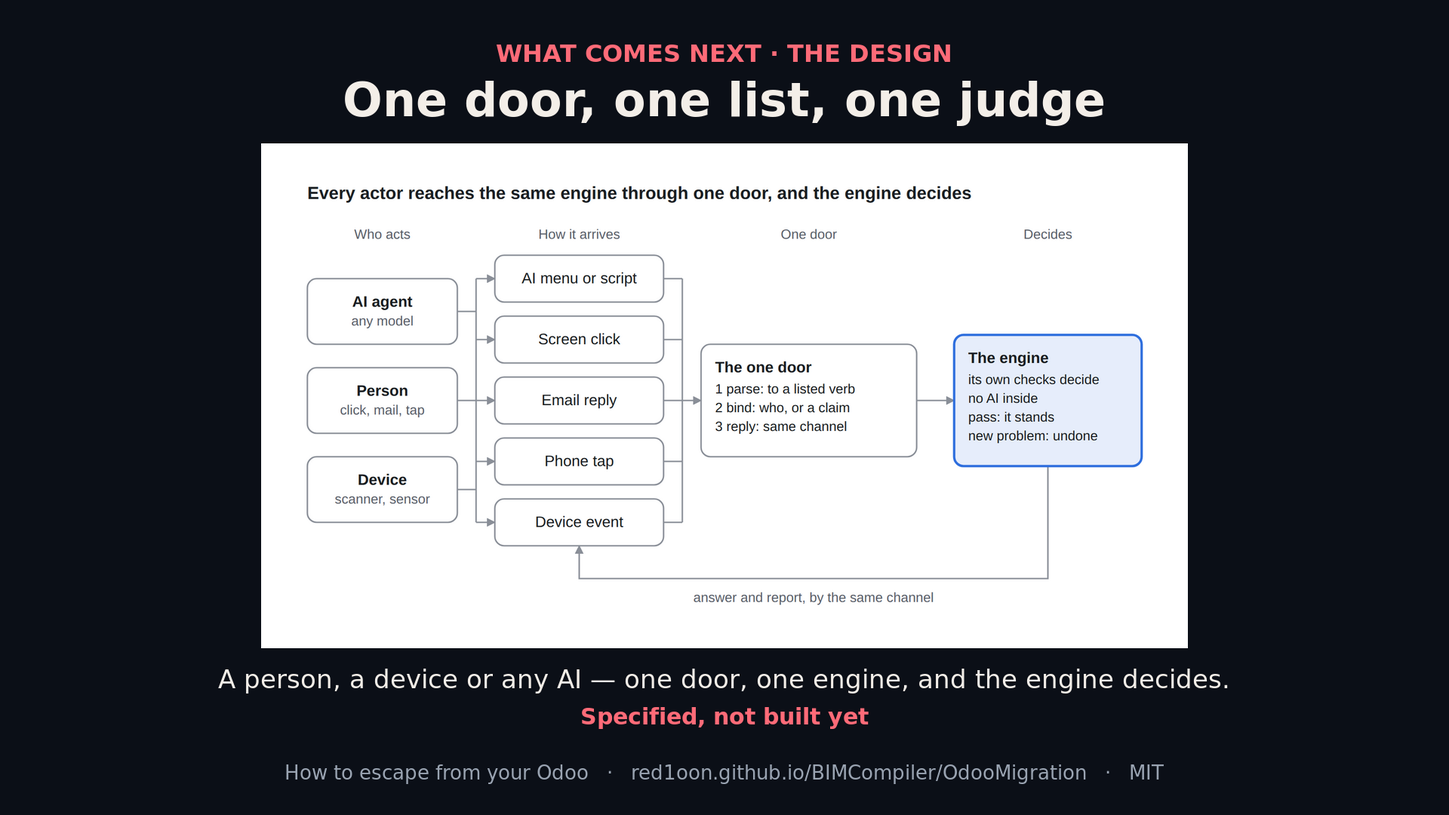
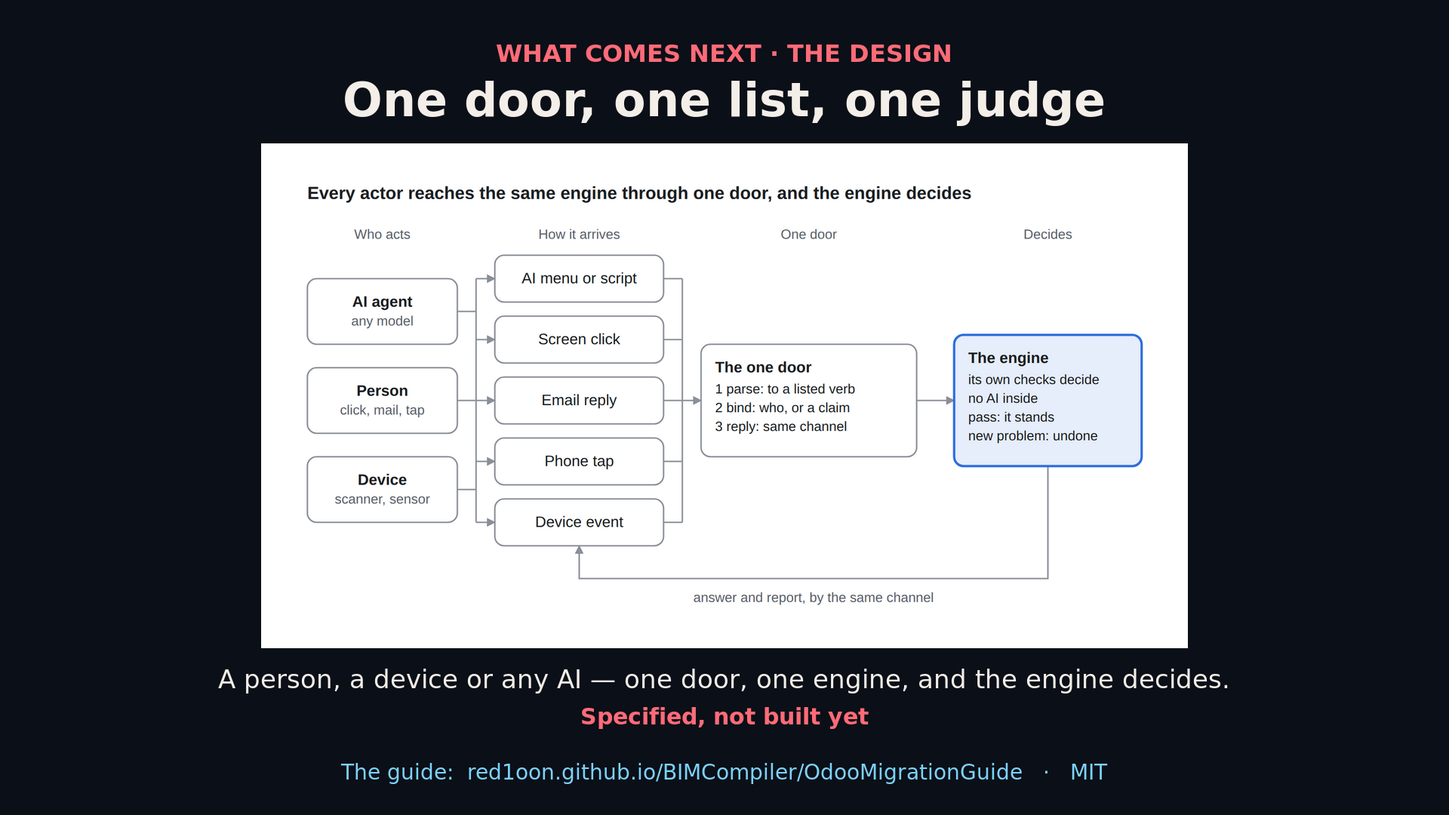
film: zh/th/ms builder (lang_text + build_lang + svg2png), ZH rc1 built; guide URL on the end card; resume notes

Changed region(s): [[0.2188, 0.9167, 0.75, 0.9778], [0.7812, 0.9167, 0.8125, 0.9472]]

diff --git a/scripts/film_odoo_migration/svg2png.js b/scripts/film_odoo_migration/svg2png.js
@@ -1,0 +1,7 @@
+// ⚠ DO NOT REMOVE — render an SVG to PNG in headless Chromium (no GPU), the way a browser draws it (ImageMagick's own SVG renderer drops this diagram's fills). node svg2png.js in.svg out.png [width]
+const { chromium } = require('/home/red1/bim-ootb/tests/node_modules/playwright'), fs = require('fs');
+(async () => { const [, , i, o, w] = process.argv, svg = fs.readFileSync(i, 'utf8'), m = /viewBox="0 0 ([\d.]+) ([\d.]+)"/.exec(svg) || /width="([\d.]+)"[^>]*height="([\d.]+)"/.exec(svg);
+  const W = Number(m[1]), H = Number(m[2]), scale = (Number(w) || 1900) / W;
+  const b = await chromium.launch({ args: ['--disable-gpu'] }), p = await (await b.newContext({ viewport: { width: Math.ceil(W), height: Math.ceil(H) }, deviceScaleFactor: scale })).newPage();
+  await p.setContent('<html><body style="margin:0;background:#fff">' + svg.replace(/<\?xml[^>]*>/, '') + '</body></html>'); await p.waitForTimeout(300);
+  await p.locator('svg').first().screenshot({ path: o }); await b.close(); console.log('§SVG2PNG ' + o + ' ' + W + 'x' + H + ' scale=' + scale.toFixed(2)); })();

diff --git a/scripts/film_odoo_migration/lang_text.py b/scripts/film_odoo_migration/lang_text.py
@@ -1,0 +1,143 @@
+# ⚠ DO NOT REMOVE — Scope: every word of the film "How to escape from your Odoo" in zh / th / ms (owner 2026-11-09: "Do Mandarin version, then Thai, then Malay (E-R-P in case foreign
+#   pronounced as one syllable)"). Same beats and cards as the English rc4 (build.py / cards.sh). Numbers are {slots} filled from out/rec/facts.json — never typed here.
+#   Malay: the VOICE says E-R-P and A-I (letters), the CAPTION keeps ERP / AI (build_lang.py applies it). Program output (the export terminal) and the ERP's own UI stay as shot.
+SVG_EN = ['Every actor reaches the same engine through one door, and the engine decides', 'Who acts', 'How it arrives', 'One door', 'Decides', 'AI agent', 'any model', 'Person',
+          'click, mail, tap', 'Device', 'scanner, sensor', 'AI menu or script', 'Screen click', 'Email reply', 'Phone tap', 'Device event', 'The one door', '1 parse: to a listed verb',
+          '2 bind: who, or a claim', '3 reply: same channel', 'The engine', 'its own checks decide', 'no AI inside', 'pass: it stands', 'new problem: undone', 'answer and report, by the same channel']
+L = {}
+L['zh'] = dict(
+ font_b='Noto-Sans-CJK-SC-Bold', font_r='Noto-Sans-CJK-SC', ass_font='Noto Sans CJK SC', split='zh',
+ cards={
+  'c01': ['真实运行 · 从头到尾', '如何逃离', '你的 Odoo', 'Odoo 17 演示公司 → Kernel ERP，就在这台电脑上'],
+  'c02': ['通常的情况', '你', '他们的程序', '他们的数据库', '每一次点击', '全天运行', '在别处', '全天运行', '按月计费', '你的数据存放在一台你一直在付费的服务器上。'],
+  'c03': ['之前 · 之后', 'A · Odoo（它的客户界面）', 'B · Kernel ERP，就在这个浏览器里'],
+  'c04': ['第一步', '导出', '在你的 Odoo 旁边', '一个小程序读取数据，写出一个工作簿'],
+  'c05': ['在装有 Odoo 的电脑上'],
+  'c06': ['第二步', '你自己的', '公司', '按 iDempiere 的方式建立'],
+  'c07': ['登录界面上的新公司'],
+  'c08': ['第三步', '从 Odoo', '迁移', '选择文件 · 查看摘要 · 处理'],
+  'c09': ['从 Odoo 迁移：选好文件，回答几个问题'],
+  'c10': ['摘要：在写入任何数据之前'],
+  'c11': ['处理：要么全部写入，要么一条也不写'],
+  'c12': ['Odoo 的客户，出现在 ERP 自己的窗口里'],
+  'c13': ['Odoo 的产品，出现在 ERP 自己的窗口里'],
+  'c14': ['本地优先', '就在你的', '电脑上', 'ERP 和你的数据都在这个浏览器里'],
+  'c15': ['断开网络 —— 依然修改并保存了一位客户', '离线 · {req} 次网络请求'],
+  'c16': ['你的团队：团队面板 —— 先建立团队，再“访问”', '团队影片：'],
+  'c17': ['这次运行证明了什么（它自己的日志）', '{ops} 条记录，一组签名的更改', '链条已验证：{vc}', '{bp} 个业务伙伴 · {pr} 个产品', '{il} 行库存 · {ev} 个会计科目',
+          '摘要预测的，正是“处理”写入的 —— 17 张表全部一致', '断网时保存：{req} 次网络请求'],
+  'c18': ['不只是 Odoo', '每张表一个工作表。', '第一行：列名。', '其余的由 ERP 自己的数据字典决定。', 'Odoo 只是打开的第一扇门 —— 任何能读出数据的系统都适用'],
+  'c19': ['尚未完成', '下一次更新将带来', '· 余额和未结发票', '· 账目精确到分', '· 在同一台电脑上与 Odoo 比较速度', '今天已迁移：客户、联系人、产品、价格、会计科目、仓库和期初库存'],
+  'c20': ['接下来 · 设计', '一扇门，一份清单，一位裁判', '一个人、一台设备或任何 AI —— 一扇门、一个引擎，由引擎决定。', '已有规格，尚未建成', '如何逃离你的 Odoo'],
+ },
+ svg=['每个参与者都通过一扇门到达同一个引擎，由引擎决定', '谁在操作', '如何到达', '一扇门', '决定', 'AI 代理', '任何模型', '人', '点击、邮件、触屏', '设备', '扫描器、传感器',
+      'AI 菜单或脚本', '屏幕点击', '邮件回复', '手机触屏', '设备事件', '这一扇门', '1 解析：成为已列出的动词', '2 绑定：是谁，或一项声明', '3 回复：同一渠道', '引擎', '由它自己的检查决定',
+      '内部没有 AI', '通过：结果成立', '出现新问题：撤销', '通过同一渠道回答和报告'],
+ turns={
+  '02': [('F', '我的数据存在一台我一直在付费的服务器上。能拿出来吗？'), ('M', '可以。这是一次真实的运行，用 Odoo 的演示公司，从头到尾。')],
+  '03': [('M', '左边是 Odoo。右边是 Kernel ERP，就在这个浏览器里，就在这台电脑上。三步就到了这里。')],
+  '05': [('M', '第一步。在你的 Odoo 旁边运行一个小程序，它读取你需要的数据，写出一个工作簿。它从不修改 Odoo。')],
+  '07': [('M', '第二步。在 ERP 里建立你自己的公司，方式和 iDempiere 一样，然后登录。')],
+  '09': [('M', '第三步。打开“从 Odoo 迁移”，选择文件。什么都不会上传。它会问几个问题，比如哪个单位对应哪个。')],
+  '10': [('F', '在我按下任何按钮之前，它会做什么？'), ('M', '这是真实导入的一次试运行。每张表都写明会导入多少行，以及哪些会被拒绝、为什么。这里，一条也没有。')],
+  '11': [('M', '处理。要么全部写入，要么一条也不写。')],
+  '12': [('F', '真的都在吗？'), ('M', '{bp}位客户、{pr}个产品、{ev}个会计科目、{il}行库存。和摘要说的完全一样。')],
+  '13': [('M', '还有它们的产品，在 ERP 自己的窗口里。')],
+  '15': [('F', '如果断网了呢？'), ('M', '什么都不会停。这里网络已经断开，客户依然被修改并保存。每一次点击都在这台电脑上得到回应，没有服务器要等，也没有服务器要付费。')],
+  '16': [('F', '可我的员工也需要同样的数据。'), ('M', '每台设备只把自己签名的更改通过中继发送出去：那是一个邮箱，不是服务器。在这里建立团队，同事们下次访问时就会收到这些更改。团队影片里有完整的演示。')],
+  '17': [('M', '这次运行检查了自己。{ops}条记录，在一组签名的更改里，链条已验证，每张表的摘要都和结果一致。')],
+  '18': [('M', 'Odoo 只是我们打开的第一扇门。导入器里没有任何 Odoo 专用的东西。任何能读出数据的系统都适用。')],
+  '19': [('F', '那我明天就能切换了吗？'), ('M', '主数据和期初库存，今天就可以。余额、未结发票和速度对比，会在这部影片的下一次更新里。')],
+ })
+L['th'] = dict(
+ font_b='/usr/share/fonts/opentype/tlwg/Loma-Bold.otf', font_r='/usr/share/fonts/opentype/tlwg/Loma.otf', ass_font='Loma', split='th',
+ cards={
+  'c01': ['การรันจริง ตั้งแต่ต้นจนจบ', 'วิธีหนีออกจาก', 'Odoo ของคุณ', 'บริษัทเดโมของ Odoo 17 → Kernel ERP บนเครื่องนี้'],
+  'c02': ['ภาพที่คุ้นเคย', 'คุณ', 'โปรแกรมของเขา', 'ฐานข้อมูลของเขา', 'ทุกคลิก', 'ทำงานทั้งวัน', 'อยู่ที่อื่น', 'ทำงานทั้งวัน', 'เก็บเงินรายเดือน', 'ข้อมูลของคุณอยู่บนเซิร์ฟเวอร์ที่คุณต้องจ่ายเงินไม่หยุด'],
+  'c03': ['ก่อน · หลัง', 'A · Odoo (หน้าลูกค้า)', 'B · Kernel ERP ในเบราว์เซอร์นี้'],
+  'c04': ['ขั้นที่ 1', 'ส่งออก', 'ข้าง Odoo ของคุณ', 'โปรแกรมเล็ก ๆ อ่านข้อมูล แล้วเขียนเวิร์กบุ๊กหนึ่งไฟล์'],
+  'c05': ['บนเครื่องที่มี Odoo'],
+  'c06': ['ขั้นที่ 2', 'บริษัท', 'ของคุณเอง', 'ตั้งค่าแบบเดียวกับ iDempiere'],
+  'c07': ['บริษัทใหม่บนหน้าจอเข้าสู่ระบบ'],
+  'c08': ['ขั้นที่ 3', 'ย้ายข้อมูล', 'จาก Odoo', 'เลือกไฟล์ · อ่านสรุป · ประมวลผล'],
+  'c09': ['ย้ายข้อมูลจาก Odoo: เลือกไฟล์ ตอบคำถาม'],
+  'c10': ['สรุป ก่อนเขียนข้อมูลใด ๆ'],
+  'c11': ['ประมวลผล: เข้าทั้งหมด หรือไม่เข้าเลย'],
+  'c12': ['ลูกค้าของ Odoo ในหน้าต่างของ ERP เอง'],
+  'c13': ['สินค้าของ Odoo ในหน้าต่างของ ERP เอง'],
+  'c14': ['ใช้งานบนเครื่องก่อน', 'บนเครื่อง', 'ของคุณ', 'ERP และข้อมูลของคุณอยู่ในเบราว์เซอร์นี้'],
+  'c15': ['ปิดอินเทอร์เน็ต แล้วแก้ไขและบันทึกลูกค้า', 'ออฟไลน์ · {req} คำขอเครือข่าย'],
+  'c16': ['ทีมของคุณ: แผงทีม เริ่มทีม แล้วกด Visit', 'ภาพยนตร์เรื่องทีม:'],
+  'c17': ['สิ่งที่การรันนี้พิสูจน์ (จากล็อกของมันเอง)', '{ops} ระเบียน ในชุดการเปลี่ยนแปลงที่ลงนามหนึ่งชุด', 'ตรวจสอบสายโซ่แล้ว: {vc}', 'คู่ค้า {bp} ราย · สินค้า {pr} รายการ',
+          'สต็อก {il} บรรทัด · บัญชี {ev} บัญชี', 'สิ่งที่สรุปทำนายไว้ คือสิ่งที่ประมวลผลเขียนจริง ครบทั้ง 17 ตาราง', 'บันทึกขณะปิดอินเทอร์เน็ต: {req} คำขอเครือข่าย'],
+  'c18': ['ไม่ใช่แค่ Odoo', 'หนึ่งชีตต่อหนึ่งตาราง', 'แถวแรก: ชื่อคอลัมน์', 'ที่เหลือ พจนานุกรมของ ERP เองเป็นผู้ตัดสิน', 'Odoo เป็นประตูบานแรกที่เปิด สร้างมาสำหรับทุกระบบที่อ่านข้อมูลได้'],
+  'c19': ['ยังไม่ได้สร้าง', 'มาในการอัปเดตครั้งหน้า', '· ยอดคงเหลือและใบแจ้งหนี้ค้างชำระ', '· บัญชีตรงกันถึงสตางค์', '· เวลาเทียบกับ Odoo บนเครื่องเดียวกัน',
+          'วันนี้: ลูกค้า ผู้ติดต่อ สินค้า ราคา บัญชี คลังสินค้า และสต็อกยกมา'],
+  'c20': ['สิ่งที่จะมาต่อไป · การออกแบบ', 'ประตูเดียว รายการเดียว ผู้ตัดสินเดียว', 'คน อุปกรณ์ หรือ AI ใดก็ได้: ประตูเดียว เอนจินเดียว และเอนจินเป็นผู้ตัดสิน', 'มีข้อกำหนดแล้ว ยังไม่ได้สร้าง', 'วิธีหนีออกจาก Odoo ของคุณ'],
+ },
+ svg=['ผู้กระทำทุกรายเข้าถึงเอนจินเดียวกันผ่านประตูเดียว และเอนจินเป็นผู้ตัดสิน', 'ใครกระทำ', 'มาถึงอย่างไร', 'ประตูเดียว', 'ตัดสิน', 'เอเจนต์ AI', 'โมเดลใดก็ได้', 'คน', 'คลิก อีเมล แตะ',
+      'อุปกรณ์', 'เครื่องสแกน เซนเซอร์', 'เมนูหรือสคริปต์ AI', 'คลิกหน้าจอ', 'ตอบอีเมล', 'แตะโทรศัพท์', 'เหตุการณ์จากอุปกรณ์', 'ประตูเดียวนั้น', '1 แยกคำ: เป็นคำสั่งในรายการ',
+      '2 ผูก: ใคร หรือคำอ้างสิทธิ์', '3 ตอบกลับ: ช่องทางเดิม', 'เอนจิน', 'การตรวจของมันเองเป็นผู้ตัดสิน', 'ไม่มี AI อยู่ข้างใน', 'ผ่าน: ยืนยันผล', 'มีปัญหาใหม่: ย้อนกลับ', 'ตอบและรายงานผ่านช่องทางเดิม'],
+ turns={
+  '02': [('F', 'ข้อมูลของฉันอยู่บนเซิร์ฟเวอร์ ที่ฉันต้องจ่ายเงินไม่หยุด เอาออกมาได้ไหม'), ('M', 'ได้ นี่คือการรันจริงหนึ่งครั้ง กับบริษัทเดโมของ Odoo ตั้งแต่ต้นจนจบ')],
+  '03': [('M', 'ทางซ้ายคือ Odoo ทางขวาคือ Kernel ERP ในเบราว์เซอร์นี้ บนเครื่องนี้ สามขั้นตอนพามาถึงตรงนี้')],
+  '05': [('M', 'ขั้นที่หนึ่ง โปรแกรมเล็ก ๆ ข้าง Odoo ของคุณ อ่านข้อมูลที่ต้องใช้ แล้วเขียนเวิร์กบุ๊กหนึ่งไฟล์ มันไม่เคยแก้ไข Odoo')],
+  '07': [('M', 'ขั้นที่สอง สร้างบริษัทของคุณเองใน ERP แบบเดียวกับที่ iDempiere ตั้งค่า แล้วเข้าสู่ระบบ')],
+  '09': [('M', 'ขั้นที่สาม เปิด ย้ายข้อมูลจาก Odoo แล้วเลือกไฟล์ ไม่มีอะไรถูกอัปโหลด มันจะถามสองสามข้อ เช่น หน่วยไหนตรงกับหน่วยไหน')],
+  '10': [('F', 'ก่อนที่ฉันจะกดอะไร มันจะทำอะไร'), ('M', 'นี่คือการทดลองรันของการนำเข้าจริง ทุกชีตบอกว่าจะนำเข้ากี่แถว และแถวไหนจะถูกปฏิเสธ เพราะอะไร ตรงนี้ ไม่มีเลย')],
+  '11': [('M', 'ประมวลผล ทั้งหมดเข้าไป หรือไม่เข้าเลยสักรายการ')],
+  '12': [('F', 'อยู่ครบจริงหรือ'), ('M', 'ลูกค้า {bp} ราย สินค้า {pr} รายการ บัญชี {ev} บัญชี และสต็อก {il} บรรทัด ตรงตามที่สรุปบอกทุกอย่าง')],
+  '13': [('M', 'และสินค้าของมัน ในหน้าต่างของ ERP เอง')],
+  '15': [('F', 'แล้วถ้าอินเทอร์เน็ตล่มล่ะ'), ('M', 'ไม่มีอะไรหยุด ตอนนี้อินเทอร์เน็ตปิดอยู่ แต่ยังแก้ไขและบันทึกลูกค้าได้ ทุกคลิกได้คำตอบบนเครื่องนี้ ไม่มีเซิร์ฟเวอร์ให้รอ และไม่มีเซิร์ฟเวอร์ให้จ่ายเงิน')],
+  '16': [('F', 'แต่พนักงานของฉัน ต้องใช้ข้อมูลเดียวกัน'), ('M', 'แต่ละเครื่องส่งเฉพาะการเปลี่ยนแปลงที่ลงนามแล้ว ผ่านรีเลย์ ซึ่งเป็นตู้ไปรษณีย์ ไม่ใช่เซิร์ฟเวอร์ เริ่มทีมตรงนี้ แล้วเพื่อนร่วมงานจะได้รับการเปลี่ยนแปลง เมื่อเข้ามาครั้งถัดไป ภาพยนตร์เรื่องทีมแสดงไว้ครบถ้วน')],
+  '17': [('M', 'การรันนี้ตรวจตัวเอง {ops} ระเบียน ในชุดการเปลี่ยนแปลงที่ลงนามหนึ่งชุด สายโซ่ผ่านการตรวจสอบ และสรุปตรงกับผลลัพธ์ทุกตาราง')],
+  '18': [('M', 'Odoo เป็นประตูบานแรกที่เราเปิด ในตัวนำเข้าไม่มีอะไรที่เป็นของ Odoo เลย มันสร้างมาสำหรับทุกระบบที่อ่านข้อมูลได้')],
+  '19': [('F', 'แล้วฉันเปลี่ยนได้พรุ่งนี้เลยไหม'), ('M', 'ข้อมูลหลักและสต็อกยกมา วันนี้เลย ยอดคงเหลือ ใบแจ้งหนี้ค้างชำระ และการเปรียบเทียบเวลา จะมาในการอัปเดตครั้งหน้าของภาพยนตร์เรื่องนี้')],
+ })
+L['ms'] = dict(
+ font_b='/usr/share/fonts/truetype/dejavu/DejaVuSans-Bold.ttf', font_r='/usr/share/fonts/truetype/dejavu/DejaVuSans.ttf', ass_font='DejaVu Sans', split=None,
+ voice_sub=[('ERP', 'E-R-P'), ('AI', 'A-I')],   # owner: "E-R-P in case foreign pronounced as one syllable" — voice only; the caption keeps ERP / AI
+ cards={
+  'c01': ['LARIAN SEBENAR, DARI MULA HINGGA AKHIR', 'Cara melepaskan diri', 'daripada Odoo anda', 'Syarikat demo Odoo 17 → Kernel ERP, pada mesin ini'],
+  'c02': ['Gambaran biasa', 'Anda', 'Program mereka', 'Pangkalan data', 'setiap klik', 'berjalan sepanjang hari', 'di tempat lain', 'berjalan sepanjang hari', 'dibil setiap bulan', 'Data anda berada pada pelayan yang anda terus bayar.'],
+  'c03': ['Sebelum · selepas', 'A · Odoo (skrin Pelanggannya)', 'B · Kernel ERP, dalam pelayar ini'],
+  'c04': ['LANGKAH 1', 'Eksport', 'di sebelah Odoo anda', 'satu program kecil membacanya, dan menulis satu buku kerja'],
+  'c05': ['Pada mesin yang ada Odoo'],
+  'c06': ['LANGKAH 2', 'Syarikat', 'anda sendiri', 'disediakan seperti cara iDempiere'],
+  'c07': ['Syarikat baharu pada skrin log masuk'],
+  'c08': ['LANGKAH 3', 'Pindah', 'dari Odoo', 'pilih fail · baca ringkasan · Proses'],
+  'c09': ['Pindah dari Odoo: fail dipilih, soalan ditanya'],
+  'c10': ['Ringkasan, sebelum apa-apa ditulis'],
+  'c11': ['Proses: semuanya, atau tiada langsung'],
+  'c12': ['Pelanggan Odoo, dalam tetingkap ERP sendiri'],
+  'c13': ['Produk Odoo, dalam tetingkap ERP sendiri'],
+  'c14': ['TEMPATAN DAHULU', 'Pada mesin', 'anda', 'ERP dan data anda berada dalam pelayar ini'],
+  'c15': ['Internet dimatikan — pelanggan diubah dan disimpan', 'LUAR TALIAN · {req} permintaan rangkaian'],
+  'c16': ['Pasukan anda: panel Pasukan — Mulakan pasukan, kemudian Visit', 'filem pasukan:'],
+  'c17': ['Apa yang dibuktikan larian ini (lognya sendiri)', '{ops} rekod, satu set perubahan bertandatangan', 'rantai disahkan: {vc}', '{bp} rakan niaga · {pr} produk',
+          '{il} baris stok · {ev} akaun', 'ramalan ringkasan = apa yang ditulis Proses, dalam kesemua 17 jadual', 'simpan semasa internet dimatikan: {req} permintaan rangkaian'],
+  'c18': ['Bukan Odoo sahaja', 'Satu helaian bagi setiap jadual.', 'Baris pertama: nama lajur.', 'Kamus ERP sendiri menentukan selebihnya.', 'Odoo pintu pertama dibuka — dibina untuk mana-mana sistem yang datanya boleh dibaca'],
+  'c19': ['BELUM DIBINA', 'Dalam kemas kini seterusnya', '·  baki dan invois belum dibayar', '·  akaun sepadan hingga ke sen', '·  masa berbanding Odoo, pada mesin yang sama',
+          'hari ini: pelanggan, kenalan, produk, harga, akaun, gudang dan stok pembukaan'],
+  'c20': ['SETERUSNYA · REKA BENTUK', 'Satu pintu, satu senarai, satu hakim', 'Manusia, peranti atau mana-mana AI — satu pintu, satu enjin, dan enjin yang menentukan.', 'Ada spesifikasi, belum dibina', 'Cara melepaskan diri daripada Odoo anda'],
+ },
+ svg=['Setiap pelaku sampai ke enjin yang sama melalui satu pintu, dan enjin yang menentukan', 'Siapa bertindak', 'Bagaimana ia sampai', 'Satu pintu', 'Menentukan', 'Ejen AI', 'apa-apa model',
+      'Manusia', 'klik, mel, sentuh', 'Peranti', 'pengimbas, penderia', 'Menu atau skrip AI', 'Klik skrin', 'Balasan e-mel', 'Sentuhan telefon', 'Peristiwa peranti', 'Pintu yang satu',
+      '1 hurai: kata kerja tersenarai', '2 ikat: siapa, atau tuntutan', '3 balas: saluran sama', 'Enjin', 'semakannya sendiri menentukan', 'tiada AI di dalam', 'lulus: ia kekal',
+      'masalah baharu: dibatalkan', 'jawapan dan laporan, melalui saluran yang sama'],
+ turns={
+  '02': [('F', 'Data saya berada pada pelayan yang saya terus bayar. Bolehkah saya keluarkannya?'), ('M', 'Boleh. Ini satu larian sebenar, dengan syarikat demo Odoo, dari mula hingga akhir.')],
+  '03': [('M', 'Di kiri, Odoo. Di kanan, Kernel ERP, dalam pelayar ini, pada mesin ini. Tiga langkah membawanya ke sini.')],
+  '05': [('M', 'Langkah satu. Satu program kecil di sebelah Odoo anda membaca apa yang anda perlukan, dan menulis satu buku kerja. Ia tidak pernah mengubah Odoo.')],
+  '07': [('M', 'Langkah dua. Cipta syarikat anda sendiri dalam ERP, seperti cara iDempiere menyediakannya, dan log masuk.')],
+  '09': [('M', 'Langkah tiga. Buka Pindah dari Odoo dan pilih fail. Tiada apa yang dimuat naik. Ia bertanya beberapa soalan, seperti unit mana sama dengan unit mana.')],
+  '10': [('F', 'Sebelum saya tekan apa-apa, apa yang akan ia lakukan?'), ('M', 'Ini larian percubaan bagi import sebenar. Setiap helaian menyatakan berapa baris akan masuk, dan mengapa ada yang ditolak. Di sini, tiada.')],
+  '11': [('M', 'Proses. Semuanya masuk, atau tiada langsung.')],
+  '12': [('F', 'Betulkah semuanya ada?'), ('M', '{bp} pelanggan, {pr} produk, {ev} akaun dan {il} baris stok. Tepat seperti kata ringkasan.')],
+  '13': [('M', 'Dan produknya, dalam tetingkap ERP sendiri.')],
+  '15': [('F', 'Dan jika internet terputus?'), ('M', 'Tiada apa yang berhenti. Di sini internet dimatikan, dan pelanggan masih diubah dan disimpan. Setiap klik dijawab pada mesin ini, tiada pelayan untuk ditunggu, dan tiada pelayan untuk dibayar.')],
+  '16': [('F', 'Tetapi kakitangan saya perlukan data yang sama.'), ('M', 'Setiap peranti hanya menghantar perubahannya yang bertandatangan melalui geganti: sebuah peti surat, bukan pelayan. Mulakan pasukan di sini, dan rakan sekerja anda akan menerima perubahan itu pada lawatan seterusnya. Filem pasukan menunjukkannya dengan lengkap.')],
+  '17': [('M', 'Larian ini menyemak dirinya sendiri. {ops} rekod, dalam satu set perubahan bertandatangan, rantai disahkan, dan ringkasan sama dengan hasil dalam setiap jadual.')],
+  '18': [('M', 'Odoo pintu pertama yang kami buka. Tiada apa dalam pemuat itu milik Odoo. Ia dibina untuk mana-mana sistem yang datanya boleh dibaca.')],
+  '19': [('F', 'Jadi bolehkah saya bertukar esok?'), ('M', 'Data induk dan stok pembukaan, hari ini. Baki, invois belum dibayar dan perbandingan masa akan datang dalam kemas kini seterusnya filem ini.')],
+ })

diff --git a/scripts/film_odoo_migration/build_lang.py b/scripts/film_odoo_migration/build_lang.py
@@ -1,0 +1,169 @@
+#!/usr/bin/env python3
+# ⚠ DO NOT REMOVE — Scope: the zh / th / ms versions of "How to escape from your Odoo" (owner 2026-11-09). Same beats, shots and facts as the English build (build.py, cards.sh); every
+#   on-screen text translated (lang_text.py) except program output and the ERP's own UI; numbers filled from out/rec/facts.json. Voices = Microsoft Edge TTS (CLOUD: the script text
+#   is sent to Microsoft — the house choice for zh/th/ms, FILM_NARRATION.md PLAYBOOK; clips cached by text). Captions: zh/th cut into short single lines; ms voice says E-R-P / A-I,
+#   the caption keeps ERP / AI. READ out/build_<lang>.log; exit codes are not evidence.   Run: venv/bin/python build_lang.py zh|th|ms [out.mp4]
+import os, sys, json, re, hashlib, asyncio, subprocess, numpy as np, soundfile as sf, edge_tts
+sys.path.insert(0, os.path.dirname(os.path.abspath(__file__))); from lang_text import L as LT, SVG_EN
+HERE = os.path.dirname(os.path.abspath(__file__)); LANG = sys.argv[1]; T = LT[LANG]
+OUT = sys.argv[2] if len(sys.argv) > 2 else os.path.expanduser('~/Videos/How_to_escape_from_your_Odoo_%s_rc1.mp4' % LANG.upper())
+if os.path.exists(OUT): print('§BUILD_REFUSED %s exists' % OUT); sys.exit(5)
+C = os.path.join(HERE, 'out/cards_' + LANG); W = os.path.join(HERE, 'out/build_' + LANG); R = os.path.join(HERE, 'out/rec'); os.makedirs(C, exist_ok=True); os.makedirs(W, exist_ok=True)
+LOG = []
+def say(s): print(s, flush=True); LOG.append(s)
+F = json.load(open(os.path.join(R, 'facts.json'))); msg = F['form_msg']; mig = lambda t: int(re.search(t + r' (\d+)', msg).group(1))
+assert F['offline_proven'] is True and F['verify_chain'] == 'ok' and F['offline_requests'] == 0, 'a voiced claim is not proven by the recording'
+N = dict(bp=mig('C_BPartner'), pr=mig('M_Product'), ev=mig('C_ElementValue'), il=mig('M_InventoryLine'), ops=F['commit_ops'], req=F['offline_requests'], vc=F['verify_chain'])
+say('§LANG %s facts %s' % (LANG, json.dumps(N)))
+fill = lambda s: s.format(**N)
+FB, FR = T['font_b'], T['font_r']; MONO = '/usr/share/fonts/truetype/dejavu/DejaVuSansMono.ttf'
+BG, BG2, CO, OW, SK, GR = '#0b0f17', '#0f172a', '#FF6B78', '#F3EEE8', '#7dd3fc', '#9aa4b2'
+def im(args): subprocess.run(['convert'] + [str(a) for a in args], check=True)
+def card(k, i): return fill(T['cards'][k][i])
+def chapter(out, k):
+    im(['-size', '1920x1080', 'xc:' + BG, '-gravity', 'center', '-font', FB, '-pointsize', 34, '-fill', CO, '-annotate', '+0-210', card(k, 0), '-pointsize', 110, '-fill', OW, '-annotate', '+0-60', card(k, 1),
+        '-fill', CO, '-annotate', '+0+90', card(k, 2), '-font', FR, '-pointsize', 40, '-fill', OW, '-annotate', '+0+220', card(k, 3), os.path.join(C, out)])
+def shot(out, src, label):
+    im([os.path.join(R, src), '-resize', '1340x754', os.path.join(C, '_s.png')])
+    im(['-size', '1920x1080', 'xc:' + BG2, '-font', FB, '-pointsize', 44, '-fill', SK, '-gravity', 'north', '-annotate', '+0+18', label, os.path.join(C, '_s.png'), '-gravity', 'north', '-geometry', '+0+92', '-composite', os.path.join(C, out)])
+# ── cards ──
+chapter('01_title.png', 'c01')
+c = T['cards']['c02']
+im(['-size', '1920x1080', 'xc:' + BG2, '-font', FB, '-pointsize', 46, '-fill', SK, '-gravity', 'north', '-annotate', '+0+40', c[0], '-fill', 'none', '-stroke', '#475569', '-strokewidth', 4,
+    '-draw', 'roundrectangle 150,300 610,560 24,24', '-draw', 'roundrectangle 730,300 1190,560 24,24', '-draw', 'roundrectangle 1310,300 1770,560 24,24', '-stroke', CO, '-strokewidth', 6,
+    '-draw', 'line 610,430 730,430', '-draw', 'line 1190,430 1310,430', '-stroke', 'none', '-gravity', 'north',
+    '-font', FB, '-pointsize', 42, '-fill', OW, '-annotate', '-580+340', c[1], '-annotate', '+0+340', c[2], '-annotate', '+580+340', c[3],
+    '-font', FR, '-pointsize', 30, '-fill', GR, '-annotate', '-580+415', c[4], '-annotate', '+0+415', c[5], '-annotate', '+580+415', c[7], '-annotate', '+0+460', c[6], '-annotate', '+580+460', c[8],
+    '-font', FB, '-pointsize', 40, '-fill', CO, '-annotate', '+0+640', c[9], os.path.join(C, '02_trap.png')])
+c = T['cards']['c03']
+im([os.path.join(R, 'odoo_contacts.png'), '-resize', '900x506', os.path.join(C, '_a.png')]); im([os.path.join(R, 'bp_window.png'), '-resize', '900x506', os.path.join(C, '_b.png')])
+im(['-size', '1920x1080', 'xc:' + BG2, '-font', FB, '-pointsize', 44, '-fill', SK, '-gravity', 'north', '-annotate', '+0+40', c[0], os.path.join(C, '_a.png'), '-gravity', 'northwest', '-geometry', '+40+200', '-composite',
+    os.path.join(C, '_b.png'), '-gravity', 'northwest', '-geometry', '+980+200', '-composite', '-font', FB, '-pointsize', 36, '-fill', OW, '-gravity', 'northwest', '-annotate', '+40+140', c[1], '-annotate', '+980+140', c[2], os.path.join(C, '03_beforeafter.png')])
+chapter('04_act1.png', 'c04')
+lines = [l.rstrip('\n').replace('🟢 ', '').replace('§ODOO-EXPORT ', '') for l in open(os.path.join(HERE, 'out/export/term_lines.txt'))]
+keep = [l for l in lines if l.startswith('sheet=')][:17] + [l for l in lines if l.strip().startswith('✓')] + [l for l in lines if 'PASS' in l]
+a = ['-size', '1920x1080', 'xc:' + BG2, '-font', FB, '-pointsize', 44, '-fill', SK, '-gravity', 'north', '-annotate', '+0+30', card('c05', 0), '-fill', '#111827', '-stroke', '#334155',
+     '-draw', 'roundrectangle 160,110 1760,845 14,14', '-stroke', 'none', '-gravity', 'northwest', '-font', MONO, '-pointsize', 28, '-fill', SK, '-annotate', '+190+128', '$ node export.js']
+y = 172
+for l in keep: a += ['-pointsize', 22, '-fill', '#86efac' if ('PASS' in l or l.strip().startswith('✓')) else '#e5e7eb', '-annotate', '+190+%d' % y, l[:118]]; y += 30
+im(a + [os.path.join(C, '05_export.png')])
+chapter('06_act2.png', 'c06'); shot('07_login.png', 'login_newco.png', card('c07', 0)); chapter('08_act3.png', 'c08')
+shot('09_form.png', 'form_units.png', card('c09', 0)); shot('10_summary.png', 'form_summary.png', card('c10', 0)); shot('11_done.png', 'form_done.png', card('c11', 0))
+shot('12_bp.png', 'bp_window.png', card('c12', 0)); shot('13_products.png', 'product_window.png', card('c13', 0)); chapter('14_local.png', 'c14')
+im([os.path.join(R, 'offline_saved.png'), '-resize', '1340x754', os.path.join(C, '_o.png')])
+im(['-size', '1920x1080', 'xc:' + BG2, '-font', FB, '-pointsize', 42, '-fill', SK, '-gravity', 'north', '-annotate', '+0+18', card('c15', 0), os.path.join(C, '_o.png'), '-gravity', 'north', '-geometry', '+0+92', '-composite',
+    '-fill', '#b91c1cdd', '-draw', 'roundrectangle 330,120 1090,190 14,14', '-font', FB, '-pointsize', 32, '-fill', 'white', '-gravity', 'northwest', '-annotate', '+350+135', card('c15', 1), os.path.join(C, '15_offline.png')])
+im([os.path.expanduser('~/bim-ootb/erp/guide_img/team_panel_before.png'), '-resize', 'x700', os.path.join(C, '_t.png')])
+im(['-size', '1920x1080', 'xc:' + BG2, '-font', FB, '-pointsize', 42, '-fill', SK, '-gravity', 'north', '-annotate', '+0+18', card('c16', 0), os.path.join(C, '_t.png'), '-gravity', 'north', '-geometry', '+0+110', '-composite',
+    '-font', FR, '-pointsize', 30, '-fill', GR, '-gravity', 'northeast', '-annotate', '+60+380', card('c16', 1), '-annotate', '+60+420', 'youtu.be/-LQwoPuQ1QU', os.path.join(C, '16_team.png')])
+c = [fill(x) for x in T['cards']['c17']]
+im(['-size', '1920x1080', 'xc:' + BG2, '-font', FB, '-pointsize', 44, '-fill', SK, '-gravity', 'north', '-annotate', '+0+40', c[0], '-font', FB, '-pointsize', 60, '-fill', OW, '-gravity', 'northwest',
+    '-annotate', '+260+200', c[1], '-annotate', '+260+320', c[2], '-annotate', '+260+440', c[3], '-annotate', '+260+540', c[4], '-font', FR, '-pointsize', 36, '-fill', GR, '-annotate', '+260+680', c[5], '-annotate', '+260+740', c[6], os.path.join(C, '17_proof.png')])
+c = T['cards']['c18']
+im(['-size', '1920x1080', 'xc:' + BG2, '-font', FB, '-pointsize', 44, '-fill', SK, '-gravity', 'north', '-annotate', '+0+40', c[0], '-font', FB, '-pointsize', 54, '-fill', OW, '-annotate', '+0+220', c[1],
+    '-annotate', '+0+320', c[2], '-annotate', '+0+420', c[3], '-font', FR, '-pointsize', 34, '-fill', GR, '-annotate', '+0+560', c[4], os.path.join(C, '18_anyerp.png')])
+c = T['cards']['c19']
+im(['-size', '1920x1080', 'xc:' + BG2, '-font', FB, '-pointsize', 34, '-fill', CO, '-gravity', 'north', '-annotate', '+0+70', c[0], '-font', FB, '-pointsize', 62, '-fill', OW, '-annotate', '+0+140', c[1],
+    '-font', FR, '-pointsize', 44, '-fill', OW, '-gravity', 'northwest', '-annotate', '+360+320', c[2], '-annotate', '+360+410', c[3], '-annotate', '+360+500', c[4], '-font', FR, '-pointsize', 32, '-fill', GR,
+    '-gravity', 'north', '-annotate', '+0+640', c[5], os.path.join(C, '19_notyet.png')])
+# the closing card: the NEURO §21.1 diagram with its 26 labels translated (font swapped to the language's), then the card
+svg = open(os.path.join(HERE, 'cards/src/actor_layer_one_door.svg')).read(); n = 0
+for en, tr in zip(SVG_EN, T['svg']):
+    svg, k = re.subn(r'(<text[^>]*>)' + re.escape(en) + r'(</text>)', lambda m: m.group(1) + tr + m.group(2), svg, count=1); n += k
+fam = T['ass_font']; svg = re.sub(r'font-family="[^"]*"', 'font-family="%s"' % fam, svg); svg = re.sub(r"font-family:[^;\"']*", 'font-family:' + fam, svg)
+open(os.path.join(W, 'diagram.svg'), 'w').write(svg); say('§LANG diagram labels translated=%d/%d font=%s' % (n, len(SVG_EN), fam))
+subprocess.run(['node', os.path.join(HERE, 'svg2png.js'), os.path.join(W, 'diagram.svg'), os.path.join(W, 'diagram.png'), '1900'], check=True)   # a browser draws it (ImageMagick's MSVG dropped the fills)
+im([os.path.join(W, 'diagram.png'), '-resize', '1180x', '-bordercolor', 'white', '-border', 24, os.path.join(C, '_d.png')])
+c = T['cards']['c20']
+im(['-size', '1920x1080', 'xc:' + BG, '-font', FB, '-pointsize', 32, '-fill', CO, '-gravity', 'north', '-annotate', '+0+52', c[0], '-font', FB, '-pointsize', 60, '-fill', OW, '-annotate', '+0+96', c[1],
+    os.path.join(C, '_d.png'), '-gravity', 'north', '-geometry', '+0+190', '-composite', '-font', FR, '-pointsize', 32, '-fill', OW, '-gravity', 'north', '-annotate', '+0+880', c[2],
+    '-font', FB, '-pointsize', 30, '-fill', CO, '-annotate', '+0+932', c[3], '-font', FR, '-pointsize', 28, '-fill', SK, '-gravity', 'south', '-annotate', '+0+40',
+    c[4] + '  ·  red1oon.github.io/BIMCompiler/OdooMigrationGuide  ·  MIT', os.path.join(C, '20_end.png')])
+for f in os.listdir(C):
+    if f.startswith('_'): os.remove(os.path.join(C, f))
+bg = subprocess.run(['convert', '-size', '10x10', 'xc:' + BG2, '-format', '%[fx:mean]', 'info:'], capture_output=True, text=True).stdout; bad = []
+for f in ['02', '03', '05', '07', '09', '10', '11', '12', '13', '15', '16', '17', '18', '19']:
+    p = [x for x in os.listdir(C) if x.startswith(f + '_')][0]; m = subprocess.run(['convert', os.path.join(C, p), '-crop', '1920x230+0+850', '-format', '%[fx:mean]', 'info:'], capture_output=True, text=True).stdout
+    if m != bg: bad.append(p + ':' + m)
+say('§LANG cards=%d caption band %s' % (len(os.listdir(C)), 'OK (14 narrated cards empty)' if not bad else 'FAIL ' + str(bad)))
+if bad: sys.exit(3)
+# ── voice (Edge, cached) ──
+VOX = {'zh': {'F': 'zh-CN-XiaoxiaoNeural', 'M': 'zh-CN-YunxiNeural'}, 'th': {'F': 'th-TH-PremwadeeNeural', 'M': 'th-TH-NiwatNeural'}, 'ms': {'F': 'ms-MY-YasminNeural', 'M': 'ms-MY-OsmanNeural'}}[LANG]
+CACHE = os.path.expanduser('~/.local/share/film_narration/cache_edge'); SR = 24000
+def tts(txt, voice):
+    h = hashlib.sha1(('%s|%s|+0%%' % (txt, voice)).encode()).hexdigest(); w = os.path.join(CACHE, h + '.wav')
+    if not os.path.exists(w):
+        mp = w[:-4] + '.mp3'
+        for _ in range(3):
+            try: asyncio.run(asyncio.wait_for(edge_tts.Communicate(txt, voice, rate='+0%').save(mp), 40)); break
+            except Exception as e: say('§EDGE retry ' + str(e)[:80])
+        subprocess.run(['ffmpeg', '-y', '-loglevel', 'error', '-i', mp, '-ar', str(SR), '-ac', '1', w], check=True); os.remove(mp); say('§EDGE_CALL voice=%s chars=%d -> %s' % (voice, len(txt), h[:10]))
+    a, _ = sf.read(w, dtype='float32'); idx = np.where(np.abs(a) > 0.004)[0]
+    return a[max(0, idx[0] - 240): idx[-1] + 480] if len(idx) else a
+def voiced(t):
+    for a, b in T.get('voice_sub', []): t = re.sub(r'\b%s\b' % a, b, t)
+    return t
+ORDER = [('01_title.png', 5.0, None), ('02_trap.png', 0, '02'), ('03_beforeafter.png', 0, '03'), ('04_act1.png', 3.6, None), ('05_export.png', 0, '05'), ('06_act2.png', 3.6, None),
+         ('07_login.png', 0, '07'), ('08_act3.png', 3.6, None), ('09_form.png', 0, '09'), ('10_summary.png', 0, '10'), ('11_done.png', 0, '11'), ('12_bp.png', 0, '12'), ('13_products.png', 0, '13'),
+         ('14_local.png', 3.6, None), ('15_offline.png', 0, '15'), ('16_team.png', 0, '16'), ('17_proof.png', 0, '17'), ('18_anyerp.png', 0, '18'), ('19_notyet.png', 0, '19'), ('20_end.png', 7.0, None)]
+LEAD, GAP, TAIL = 0.45, 0.38, 1.1; timeline, events, segs, t = [], [], [], 0.0
+for cardf, hold, key in ORDER:
+    if not key: segs.append((cardf, hold)); t += hold; continue
+    pos = LEAD
+    for spk, line in T['turns'][key]:
+        cap = fill(line); a = tts(voiced(cap), VOX[spk])
+        timeline.append((t + pos, a)); events.append((t + pos, t + pos + len(a) / SR, spk, cap)); pos += len(a) / SR + GAP
+    dur = pos - GAP + TAIL; segs.append((cardf, dur)); t += dur
+TOTAL = t; audio = np.zeros(int(TOTAL * SR) + SR, dtype=np.float32)
+for t0, a in timeline: i = int(t0 * SR); audio[i:i + len(a)] += a
+sf.write(os.path.join(W, 'voice.wav'), audio, SR)
+lst = open(os.path.join(W, 'list.txt'), 'w')
+for i, (cardf, dur) in enumerate(segs):
+    o = os.path.join(W, 'seg%02d.mp4' % i)
+    subprocess.run(['ffmpeg', '-y', '-loglevel', 'error', '-loop', '1', '-framerate', '30', '-t', '%.3f' % dur, '-i', os.path.join(C, cardf), '-vf', 'fade=t=in:st=0:d=0.4,fade=t=out:st=%.3f:d=0.4,format=yuv420p' % max(0, dur - 0.4),
+                    '-c:v', 'libx264', '-tune', 'stillimage', '-r', '30', o], check=True); lst.write("file '%s'\n" % o)
+lst.close(); subprocess.run(['ffmpeg', '-y', '-loglevel', 'error', '-f', 'concat', '-safe', '0', '-i', os.path.join(W, 'list.txt'), '-c', 'copy', os.path.join(W, 'silent.mp4')], check=True)
+# captions: zh cut at Chinese punctuation (<= 20 chars), th at spaces (<= 34 chars); each piece gets its share of the turn's time by length
+def pieces(s):
+    if T['split'] == 'zh':
+        parts, cur = [], ''
+        for ch in s:
+            cur += ch
+            if ch in '。！？；，：、' and len(cur) >= 6: parts.append(cur); cur = ''
+        if cur: parts.append(cur)
+        out = []
+        for p in parts:
+            while len(p) > 20: out.append(p[:20]); p = p[20:]
+            if out and len(out[-1]) + len(p) <= 20 and not re.search('[。！？]$', out[-1]): out[-1] += p
+            else: out.append(p)
+        return out
+    if T['split'] == 'th':
+        out, cur = [], ''
+        for wd in s.split(' '):
+            if cur and len(cur) + 1 + len(wd) > 34: out.append(cur); cur = wd
+            else: cur = (cur + ' ' + wd).strip()
+        if cur: out.append(cur)
+        return out
+    return [s]
+def ts(x): return '%d:%02d:%05.2f' % (int(x // 3600), int(x % 3600 // 60), x % 60)
+head = open(os.path.join(HERE, '../../prompts/film_narration_ass_head.txt')).read().rstrip('\n').replace('DejaVu Sans', T['ass_font']) + '\n'
+ass, npieces = head, 0
+for a0, a1, spk, line in events:
+    ps = pieces(line); tot = sum(len(p) for p in ps); cur = a0
+    for p in ps:
+        d = (a1 - a0) * len(p) / tot; ass += 'Dialogue: 0,%s,%s,%s,,0,0,0,,%s\n' % (ts(cur), ts(cur + d + (0.25 if p is ps[-1] else 0)), spk, p); cur += d; npieces += 1
+open(os.path.join(W, 'captions.ass'), 'w').write(ass)
+RAW = os.path.join(W, 'raw.mp4')
+subprocess.run(['ffmpeg', '-y', '-loglevel', 'error', '-i', os.path.join(W, 'silent.mp4'), '-i', os.path.join(W, 'voice.wav'), '-vf', 'ass=' + os.path.join(W, 'captions.ass'),
+                '-af', 'loudnorm=I=-16:TP=-1.5:LRA=11', '-c:v', 'libx264', '-crf', '20', '-preset', 'medium', '-c:a', 'aac', '-b:a', '160k', '-ar', '48000', '-shortest', RAW], check=True)
+def lufs(f):
+    r = subprocess.run(['ffmpeg', '-nostats', '-i', f, '-af', 'ebur128=peak=true', '-f', 'null', '-'], capture_output=True, text=True).stderr
+    return float(re.findall(r'I:\s+(-?[\d.]+) LUFS', r)[-1]), float(re.findall(r'Peak:\s+(-?[\d.]+) dBFS', r)[-1])
+i0, _ = lufs(RAW); g = round(-16.0 - i0, 2)
+subprocess.run(['ffmpeg', '-y', '-loglevel', 'error', '-i', RAW, '-c:v', 'copy', '-af', 'volume=%sdB,alimiter=limit=0.84:level=false' % g, '-c:a', 'aac', '-b:a', '160k', '-ar', '48000', OUT], check=True)
+I, P = lufs(OUT); dur = float(subprocess.run(['ffprobe', '-v', 'error', '-show_entries', 'format=duration', '-of', 'csv=p=0', OUT], capture_output=True, text=True).stdout)
+gaps = [round(events[i + 1][0] - events[i][1], 2) for i in range(len(events) - 1)]
+say('§BUILD_DONE %s lang=%s duration=%.1fs integrated=%.1f LUFS peak=%.1f dBFS turns=%d caption_pieces=%d longest_silence_between_turns=%.1fs' % (OUT, LANG, dur, I, P, len(events), npieces, max(gaps)))
+open(OUT[:-4] + '_narration.txt', 'w').write('How to escape from your Odoo — narration (%s). Numbers from scripts/film_odoo_migration/out/rec/facts.json. Voices: Microsoft Edge TTS (cloud).\n\n' % LANG +
+    '\n'.join('[%s] %s: %s' % (ts(a0), s, l) for a0, a1, s, l in events) + '\n')
+open(os.path.join(HERE, 'out/build_%s.log' % LANG), 'w').write('\n'.join(LOG) + '\n')

diff --git a/PROGRESS.md b/PROGRESS.md
@@ -15,7 +15,7 @@ Full text and the reasoning: `prompts/AGENT_QUEUE.md` §RESUME_PROTOCOL.
 It carries §LIVE (which agent owns which files), the waves, the ⛔USER decisions, and the standing
 constraints. A session picking up work reads that; PROGRESS.md is state, not queue.
 
-## ▶ ODOO → KERNEL ERP MIGRATION + ERP SWEEP lane (2026-11-08): read `prompts/MIGRATE_INSTALL_TENANT.md` §2026-11-08 PLAN → §B0/§B1/§B2a/§B4-SPEC → §A3-LEDGER → §OWN-DB RESULT. Done: user-run `odoo_agent/export.js` + own-Odoo flags/password prompt (#2709 #2715 #2723), Odoo record/replay mock, 16 stale ERP witnesses fixed (#2714 #2719 #2720 #2721 #2722). Owner decisions taken: import convention + summary-before-OK + uncheck; pilot NOT restored (not backward compatible); migration form lives INSIDE the ERP as a plugin (B). 2026-11-09 owner ADOPTED the Ninja multi-sheet route (MigrateExcelData, §NINJA-DECISION) — supersedes B2a. 2026-11-09 ✅ exporter v3 (one workbook, 17 sheets, 10 named patches; bim-ootb #2732) + W-SHEET-CONTRACT 🟢 live+replay (§EXPORTER-V3 RESULT). 2026-11-09 ✅ Ninja loader plugin (MigrateExcelData, bim-ootb #2734) W-NINJA-MIGRATE 🟢 31/31 on a genesis-born tenant + 4 twin default gaps fixed (§NINJA-LOADER RESULT). ✅ G1 born-tenant rows (W-GENESIS-COMPLETE 10/10, generated setInitialDefaults 182 tables; bim-ootb fix/genesis-complete-rows, regression in progress) ✅ B4 'Migrate from Odoo' form (W-ODOO-FORM 16/16 + LIVE 12/12, bim-ootb #2743). Live doc https://red1oon.github.io/BIMCompiler/OdooMigration/. NEXT: G1 merge → discount-schema choice → legacy cross-check → guide → film → legacy cross-check (§NINJA-LEGACY-INSTALL: compiles on iDempiere 13 with only the POI CellType fix) → B4 form → guide → film.
+## ▶ ODOO → KERNEL ERP MIGRATION + ERP SWEEP lane (2026-11-08): read `prompts/MIGRATE_INSTALL_TENANT.md` §2026-11-08 PLAN → §B0/§B1/§B2a/§B4-SPEC → §A3-LEDGER → §OWN-DB RESULT. Done: user-run `odoo_agent/export.js` + own-Odoo flags/password prompt (#2709 #2715 #2723), Odoo record/replay mock, 16 stale ERP witnesses fixed (#2714 #2719 #2720 #2721 #2722). Owner decisions taken: import convention + summary-before-OK + uncheck; pilot NOT restored (not backward compatible); migration form lives INSIDE the ERP as a plugin (B). 2026-11-09 owner ADOPTED the Ninja multi-sheet route (MigrateExcelData, §NINJA-DECISION) — supersedes B2a. 2026-11-09 ✅ exporter v3 (one workbook, 17 sheets, 10 named patches; bim-ootb #2732) + W-SHEET-CONTRACT 🟢 live+replay (§EXPORTER-V3 RESULT). 2026-11-09 ✅ Ninja loader plugin (MigrateExcelData, bim-ootb #2734) W-NINJA-MIGRATE 🟢 31/31 on a genesis-born tenant + 4 twin default gaps fixed (§NINJA-LOADER RESULT). ✅ G1 born-tenant rows (W-GENESIS-COMPLETE 10/10, generated setInitialDefaults 182 tables; bim-ootb fix/genesis-complete-rows, regression in progress) ✅ B4 'Migrate from Odoo' form (W-ODOO-FORM 16/16 + LIVE 12/12, bim-ootb #2743). Guide LIVE https://red1oon.github.io/BIMCompiler/OdooMigrationGuide/ · film 'How to escape from your Odoo' EN rc5 + ZH rc1 in ~/Videos. NEXT (▶ RESUME HERE in MIGRATE_INSTALL_TENANT.md): ZH to phone → TH → MS → lag update → discount-schema choice → legacy cross-check → legacy cross-check (§NINJA-LEGACY-INSTALL: compiles on iDempiere 13 with only the POI CellType fix) → B4 form → guide → film.
 ## ▶ POS → uniCenta-alike TILL + KITCHEN lane (2026-11-05, session closed): standalone till/kitchen + main till, branch relay on the LAN, localhost air-gapped tills, BOM explode, stocktake, SODA/Receive, Classic 2011 theme, standard receipt, install guide — LIVE sw v1005; films EN v5/ZH v2/MS v2. Read `prompts/POS_PLUGIN_LOCAL_FIRST.md` §13 ▶ STATUS 2026-11-05 (8 OPEN items).
 ## ▶ CAPEX / PROJECT ORDER DASHBOARD lane (2026-11-03, session 77 closed): read bim-ootb `prompts/CAPEX_DASHBOARD.md` ▶ RESUME HERE (lean, rewritten; history archived). Done: shed + HHS pushed to the local pilot and twinned 121/121 + 160/160; 7 kernel/bridge defects fixed; films EN/ZH/MS v5. NEXT: R0 probe legacy PA dashboard rows (owner go) → R1 one schedule from 4D → PA engine as a true twin.
 ## ▶ PRIVATE REAL-PROJECT lane (2026-11-06, session closed): drawings + specs + the author's own IFCs, used as a measuring rig. Shipped on bim-ootb: weld + smooth pill #2660 #2661 #2663, table reader `dxf2tables.js` #2665 (§D111), set check `dxf2setcheck.js` #2666 (§D112), neither reader wired into the Modeller page yet. Measure = sheets through the value chain, against a real set's 267 listed sheets (billable hours need the author's rate, none held). Resume from the private lane file named in MEMORY.md's first Feedback line.

diff --git a/prompts/MIGRATE_INSTALL_TENANT.md b/prompts/MIGRATE_INSTALL_TENANT.md
@@ -757,3 +757,16 @@ This measurement becomes the film's first UPDATE.
   the wrong window; W-ODOO-FORM-LIVE red on main) → own band 9542001 + guard **W-PLUGIN-ID-BANDS**; **#2749** — the Find window's "Records = N" counted the bundle only (1 over a grid of
   8) → counted through the tip reader. Also seen, NOT ours: org.kernel.bim-document fails to start (`UNIQUE constraint failed: ad_window_access`) — for that plugin's lane.
 - **Next updates of the film (owner: "release early, update often"):** the lag measurement next to Odoo (§LAG), books to the cent (B3/B5), a real user's run, other languages.
+
+### ▶ RESUME HERE (2026-11-09, end of session) — the film's language versions + what is open
+**Done:** EN `~/Videos/How_to_escape_from_your_Odoo_EN_rc5.mp4` (171.6 s, −16.2 LUFS; end card = the guide URL) · **ZH** `~/Videos/How_to_escape_from_your_Odoo_ZH_rc1.mp4`
+(175.6 s, −16.3 LUFS, peak −0.8, 51 caption lines, diagram 26/26 labels translated; frames checked). User guide LIVE: https://red1oon.github.io/BIMCompiler/OdooMigrationGuide/
+(BIMCompiler #449); method page https://red1oon.github.io/BIMCompiler/OdooMigration/ .
+**Next session, in order:**
+1. Send ZH to the owner's phone (remote control = SendUserFile card — the tool was NOT available in this session; owner asked for it).
+2. **TH:** `cd scripts/film_odoo_migration && CUDA_VISIBLE_DEVICES="" ~/.local/share/film_narration/venv/bin/python build_lang.py th` (Loma font: Noto Sans Thai has no Latin;
+   check frames as for ZH: title, trap, team, end diagram). 3. **MS:** same with `ms` (voice says E-R-P / A-I, captions keep ERP / AI — `voice_sub` in lang_text.py).
+4. The film's first UPDATE = the lag measurement (§LAG-SPEC; Odoo side: customers are `base.action_partner_form`, kanban). 5. bim-ootb #2748 (Odoo form id band + W-PLUGIN-ID-BANDS)
+   — confirm merged. 6. Report to the BIM Document plugin's lane: org.kernel.bim-document fails to start (`UNIQUE constraint failed: ad_window_access`).
+**Pipeline facts:** `record.js` (needs a tree with the plugins on main; menu leaf 9542001) → `cards.sh` (EN) / `build_lang.py <lang>` (cards + voice + captions + loudness, all from
+`out/rec/facts.json`) — `out/` is git-ignored, re-run record.js if it is gone (Odoo up: `docker start odoo-db odoo`). Edge voices = cloud (text sent to Microsoft; cached).
